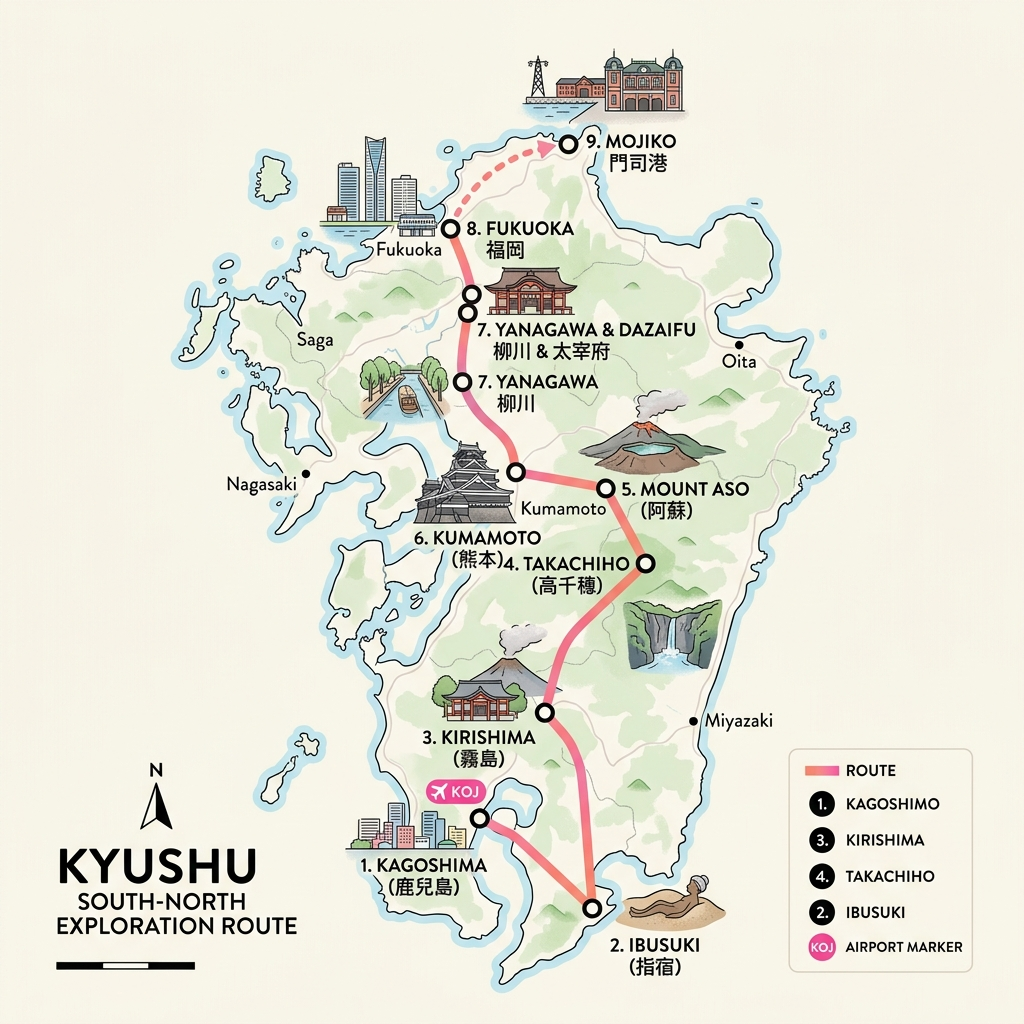
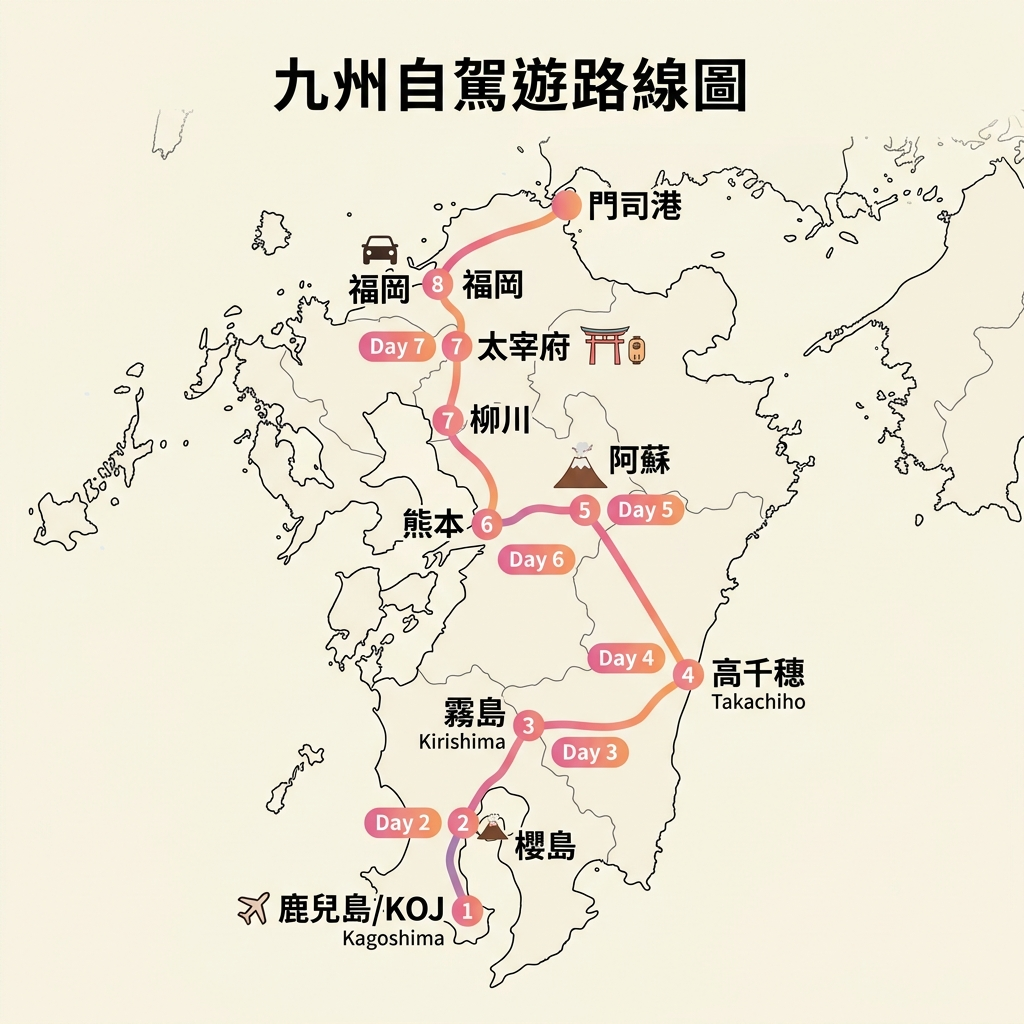
移除指宿砂浴景點 + 更新路線地圖

diff --git a/app.js b/app.js
@@ -5,35 +5,32 @@
 // --- 1. Dynamic Itinerary Data ---
 const itineraryData = {
     1: {
-        title: "抵達鹿兒島 ‧ 指宿砂浴 ‧ 櫻島環島巡禮",
-        route: "鹿兒島機場 (KOJ) 取車 ➔ 指宿砂浴 ➔ 鹿兒島港渡輪 ➔ 櫻島環島 ➔ 鹿兒島市區",
+        title: "抵達鹿兒島 ‧ 櫻島環島巡禮",
+        route: "鹿兒島機場 (KOJ) 取車 ➔ 鹿兒島港渡輪 ➔ 櫻島環島 ➔ 鹿兒島市區",
         mileage: "約 120 km",
         time: "約 2.5 hrs (自駕)",
         toll: "渡輪費 約 1,100 円/車 + KEP 高速券",
         image: "images/day1.png",
         imageAlt: "櫻島火山與鹿兒島灣景",
-        tip: "今天行程充實但精彩！取車後先南下指宿體驗砂浴，午後回鹿兒島港搭渡輪去櫻島。渡輪甲板「やぶ金」烏龍麵只有 15 分鐘可吃，動作要快！",
+        tip: "今天行程輕鬆愉快！取車後直奔鹿兒島港搭渡輪去櫻島。渡輪甲板「やぶ金」烏龍麵只有 15 分鐘可吃，動作要快！",
         meals: {
             breakfast: "飛機餐 / 桃園機場出發前自行解決",
-            lunch: "指宿 ‧ 砂浴結束後享用唐船峽流水麵（そうめん流し）或當地海鮮定食 🍜",
+            lunch: "鹿兒島市區 ‧ 拉麵或定食 🍜",
             dinner: "天文館通 ‧ <a href='https://www.google.com/maps/search/?api=1&query=黒かつ亭+天文館店' target='_blank'>黒かつ亭 / 黒べぇ 天文館店 📍</a> 🍖（薩摩黑豬炸排名店），飯後來一碗元祖<a href='https://www.google.com/maps/search/?api=1&query=天文館むじゃき+本店' target='_blank'>「白熊冰（むじゃき）」📍</a>"
         },
         accommodation: "鹿兒島市區 ‧ <a href='https://www.agoda.com/zh-tw/fav-lux-kagoshima-tenmonkan/hotel/kagoshima-jp.html?countryId=3&finalPriceView=2&isShowMobileAppPrice=false&cid=1844104&adults=4&checkIn=2027-01-28&currencyCode=TWD&los=1' target='_blank'>FAV LUX 鹿兒島天文館 🔗</a>",
         parkingSpots: [
             { name: "鹿兒島機場 (KOJ)", mapcode: "42 776 606*12" },
-            { name: "砂むし会館砂楽", mapcode: "285 228 135*25" },
             { name: "桜島フェリー (鹿児島港)", mapcode: "42 037 144*21" },
             { name: "湯之平展望所", mapcode: "42 015 506*35" },
         ],
         timeline: [
             { time: "11:20", title: "抵達鹿兒島國際機場 (KOJ) ✈", desc: "飛機降落至<a href='https://www.google.com/maps/search/?api=1&query=鹿児島空港' target='_blank'>鹿兒島國際機場 📍</a>！依序辦理入境手續、衛生申報與行李提領，完成後等待租車行的免費接駁巴士。" },
             { time: "12:00", title: "取車 ‧ 驗車 ‧ 加購 KEP 優惠券 🚗", desc: "搭接駁車至機場外租車營業所。攜帶護照、台灣駕照正本與日文譯本辦理手續，仔細確認車輛外觀（拍照存證），啟用 ETC 卡，同時詢問加購「KEP（九州高速公路周遊券）」。辦完後在附近便利商店買點小點心車上墊胃。" },
-            { time: "13:00", title: "出發南下！直奔指宿 🚗", desc: "走九州自動車道轉指宿高速道路，沿著錦江灣海岸線南下前往指宿，車程約 50 分鐘。日本靠左行駛，慢慢適應，不要緊張！途中可遠眺開聞岳。" },
-            { time: "13:50", title: "指宿砂蒸溫泉「砂樂」♨", desc: "在<a href='https://www.google.com/maps/search/?api=1&query=砂むし会館+砂楽' target='_blank'>指宿砂蒸溫泉「砂樂」 📍</a>體驗世界罕見的「天然砂蒸溫泉」！穿著浴衣躺在海灘上，工作人員用鏟子將 70℃ 的熱砂蓋上全身，促進血液循環的奇妙體驗（約 10-15 分鐘），之後可至室內溫泉沖洗。" },
-            { time: "15:00", title: "指宿午餐 ‧ 北上返回鹿兒島", desc: "砂浴結束後在指宿市區享用流水素麵或海鮮定食，吃飽後驅車北上返回鹿兒島市區方向（約 50 分鐘），直奔鹿兒島港渡輪航廈。" },
-            { time: "16:00", title: "鹿兒島港渡輪 ‧ 衝上甲板吃烏龍麵 🍜", desc: "購買<a href='https://www.google.com/maps/search/?api=1&query=桜島フェリーターミナル' target='_blank'>鹿兒島港渡輪 📍</a>車輛渡輪票（含司機約 1,100 円），停好車立刻衝上甲板！找到「<a href='https://www.google.com/maps/search/?api=1&query=やぶ金+桜島フェリー' target='_blank'>やぶ金 📍</a>」點一碗「薩摩揚げうどん（薩摩炸魚餅烏龍麵）」，正面欣賞噴煙的壯觀櫻島——船程只有 15 分鐘，快吃！" },
-            { time: "16:15", title: "登陸櫻島 ‧ 精華環島 🌋", desc: "渡輪靠岸，沿環島公路巡禮：❶ <a href='https://www.google.com/maps/search/?api=1&query=湯之平展望所' target='_blank'>湯之平展望所 📍</a>（一般遊客可達最高點，俯瞰鹿兒島灣，視線絕佳！）➔ ❷ <a href='https://www.google.com/maps/search/?api=1&query=溶岩なぎさ公園+足湯' target='_blank'>熔岩渚公園足湯 📍</a>（免費天然溫泉足湯，面海看火山 ♨），在這裡欣賞夕陽！" },
-            { time: "17:30", title: "搭渡輪返回鹿兒島市區 ‧ 入住飯店", desc: "驅車返回渡輪碼頭上船，約 15 分鐘後抵達鹿兒島港。前往飯店辦理 Check-in，放下行李梳洗換裝。" },
+            { time: "13:00", title: "出發前往鹿兒島港 🚗", desc: "從機場出發前往鹿兒島港渡輪航廈，車程約 40 分鐘。日本靠左行駛，慢慢適應，不要緊張！" },
+            { time: "13:40", title: "鹿兒島港渡輪 ‧ 衝上甲板吃烏龍麵 🍜", desc: "購買<a href='https://www.google.com/maps/search/?api=1&query=桜島フェリーターミナル' target='_blank'>鹿兒島港渡輪 📍</a>車輛渡輪票（含司機約 1,100 円），停好車立刻衝上甲板！找到「<a href='https://www.google.com/maps/search/?api=1&query=やぶ金+桜島フェリー' target='_blank'>やぶ金 📍</a>」點一碗「薩摩揚げうどん（薩摩炸魚餅烏龍麵）」，正面欣賞噴煙的壯觀櫻島——船程只有 15 分鐘，快吃！" },
+            { time: "14:00", title: "登陸櫻島 ‧ 精華環島 🌋", desc: "渡輪靠岸，沿環島公路巡禮：❶ <a href='https://www.google.com/maps/search/?api=1&query=湯之平展望所' target='_blank'>湯之平展望所 📍</a>（一般遊客可達最高點，俯瞰鹿兒島灣，視線絕佳！）➔ ❷ <a href='https://www.google.com/maps/search/?api=1&query=溶岩なぎさ公園+足湯' target='_blank'>熔岩渚公園足湯 📍</a>（免費天然溫泉足湯，面海看火山 ♨），在這裡欣賞夕陽！" },
+            { time: "16:00", title: "搭渡輪返回鹿兒島市區 ‧ 入住飯店", desc: "驅車返回渡輪碼頭上船，約 15 分鐘後抵達鹿兒島港。前往飯店辦理 Check-in，放下行李梳洗換裝。" },
             { time: "18:30", title: "天文館通晚餐 🍖", desc: "步行至天文館通，前往<a href='https://www.google.com/maps/search/?api=1&query=黒かつ亭+天文館店' target='_blank'>「黒かつ亭」或「黒べぇ 天文館店」📍</a>——鹿兒島著名薩摩黑豬炸排老店，外皮酥脆、豬肉鮮甜多汁。飯後散步到<a href='https://www.google.com/maps/search/?api=1&query=天文館むじゃき+本店' target='_blank'>「むじゃき」📍</a>嚐一碗元祖「白熊冰（しろくま）」，完美句點！" }
         ]
     },

diff --git a/index.html b/index.html
@@ -186,7 +186,7 @@
                 <div class="map-sidebar">
                     <h3>行經主要景點</h3>
                     <ul class="route-list">
-                        <li><span class="route-num">1</span> <strong>KOJ 取車 / 指宿砂浴 / 櫻島</strong> <span class="route-tag">起點 (自駕)</span></li>
+                        <li><span class="route-num">1</span> <strong>KOJ 取車 / 櫻島環島</strong> <span class="route-tag">起點 (自駕)</span></li>
                         <li><span class="route-num">2</span> <strong>仙巖園 / 霧島神宮 / 霧島溫泉</strong></li>
                         <li><span class="route-num">3</span> <strong>高千穗峽 / 夜神樂</strong></li>
                         <li><span class="route-num">4</span> <strong>阿蘇火山 ➔ 熊本市</strong></li>
